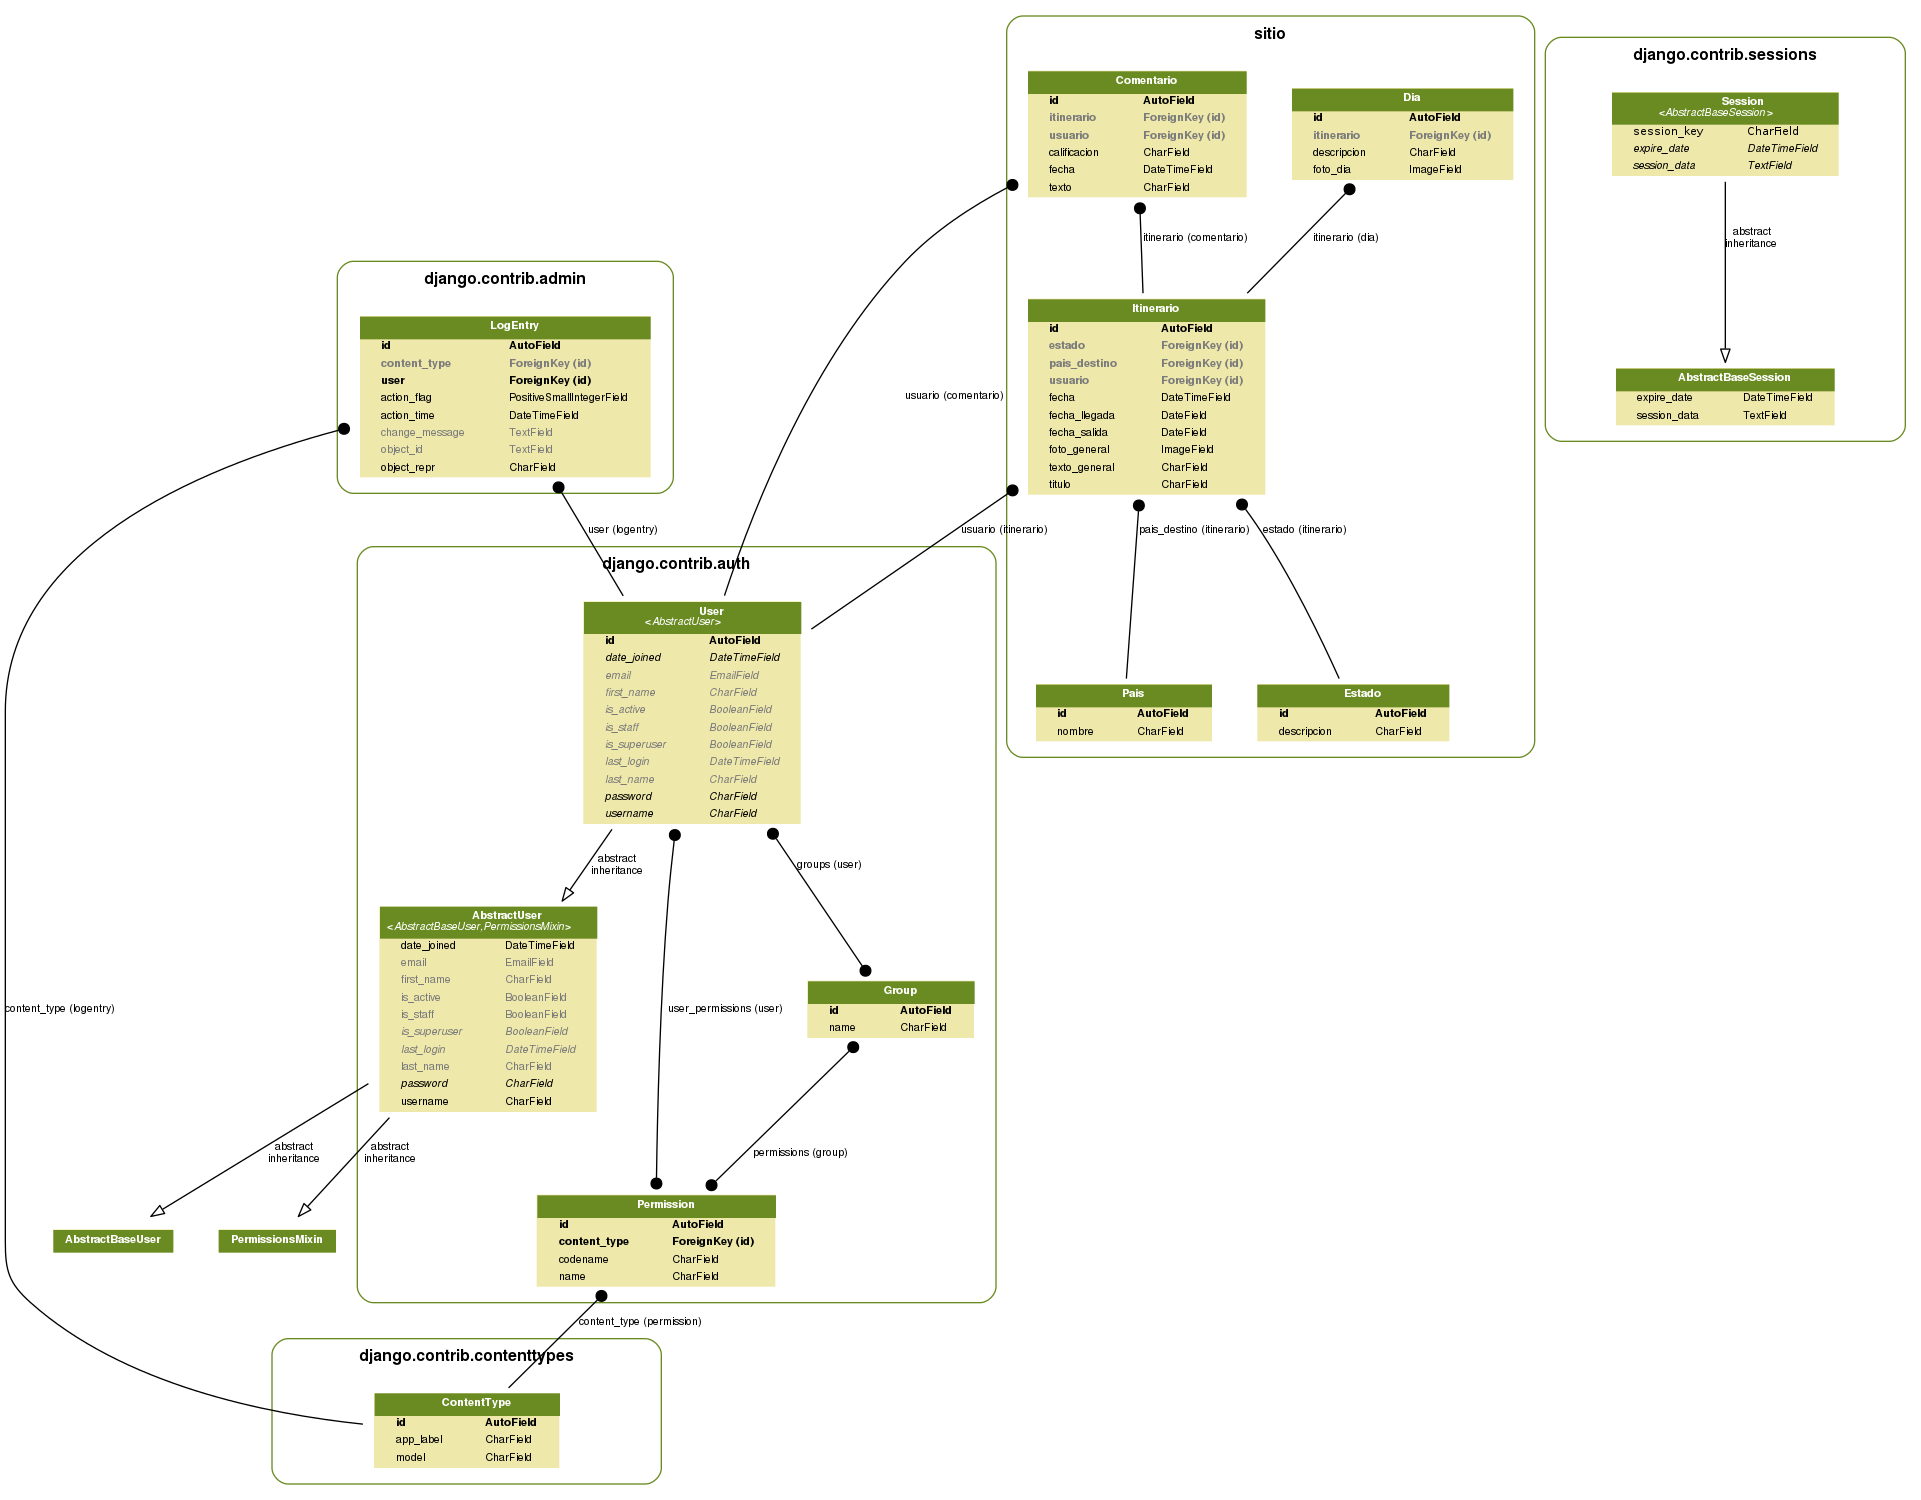
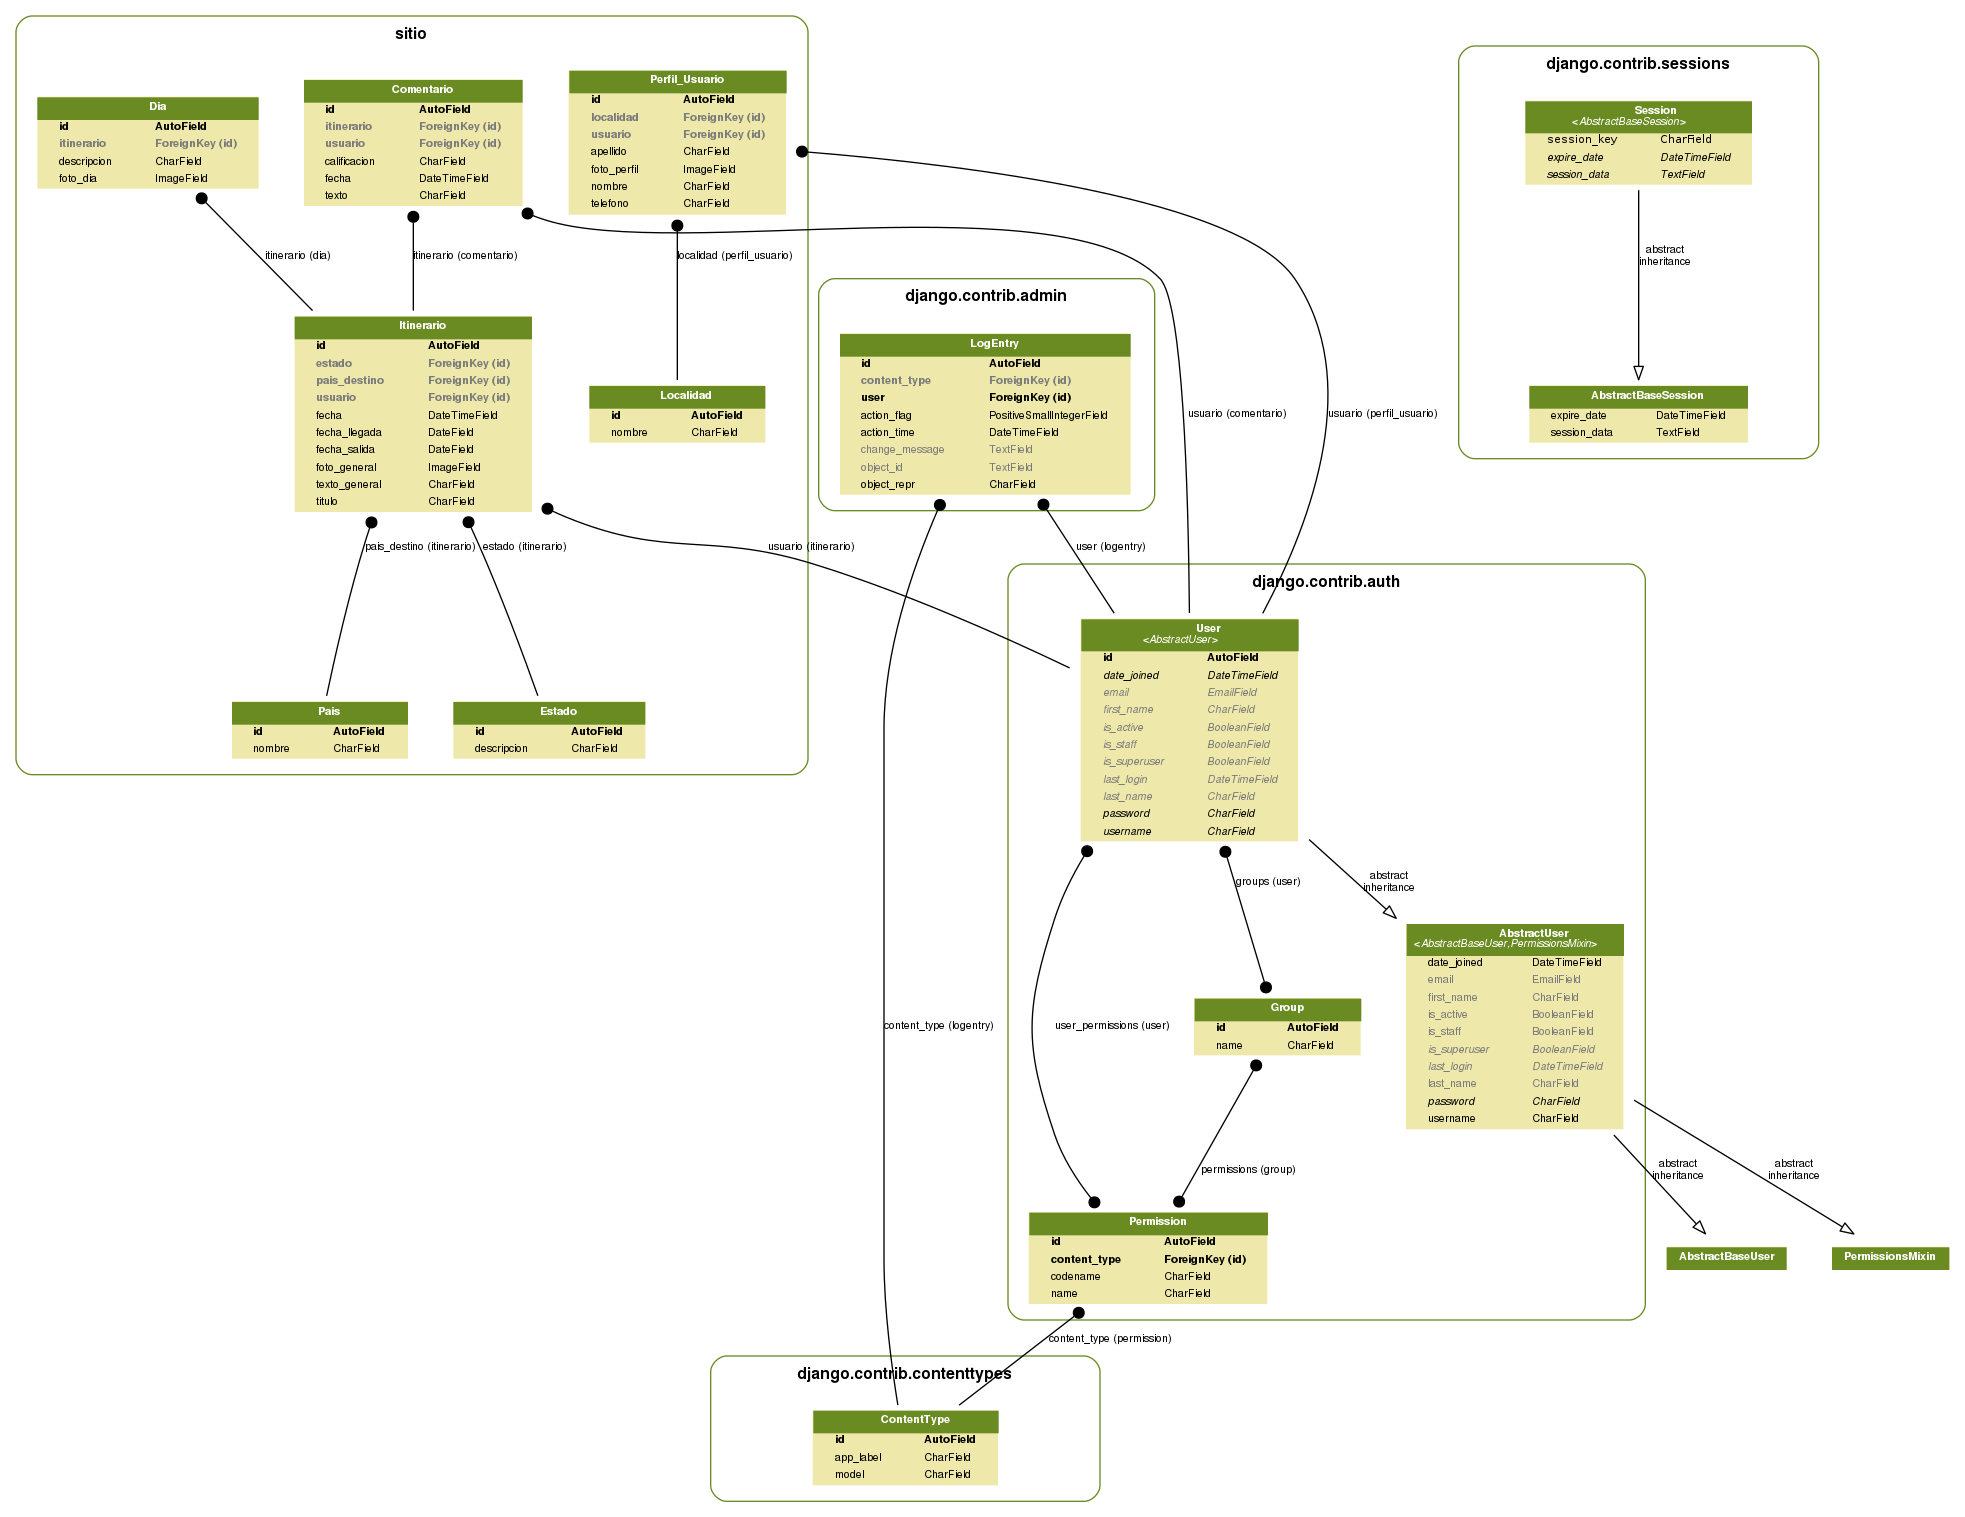
modelo de datos

diff --git a/turismo/sitio/templates/base.html b/turismo/sitio/templates/base.html
@@ -1,5 +1,6 @@
 {% load static %}
 <html>
+
 <head>
     <script src="{% static 'sitio/jquery.min.js' %}"></script>
     <link rel="stylesheet" href="https://maxcdn.bootstrapcdn.com/bootstrap/3.3.7/css/bootstrap.min.css">
@@ -8,10 +9,10 @@
     {% block extra_html %}
     {% endblock %}
 </head>
-<body>
-    <h1>{% block titulo %}{% endblock %}</h1>
 
-    {% block menu %}
+<body>
+    
+    {% block menu %} 
     <div id="cabecera_menu">
         {% if user.is_anonymous %}
             <ul class="menu">
@@ -36,12 +37,16 @@
         {% endif %}
     </div>
     {% endblock %}
-
+    
+    <h1>{% block titulo %}{% endblock %}</h1>
+    
     {% block contenido %}
     {% endblock %}
 
     {% block extra_js %}
         <script src="{% static 'sitio/base.js' %}" ></script>
     {% endblock %}
+
 </body>
+
 </html>

diff --git a/turismo/sitio/models.py b/turismo/sitio/models.py
@@ -1,10 +1,25 @@
 from django.contrib import admin
 from django.db import models
-from django.contrib.auth.models import AbstractUser
+from django.contrib.auth.models import User
 
-class User(AbstractUser):
+class Localidad(models.Model):
+    nombre = models.CharField(max_length=50)
+    
+    def __str__(self):
+        return self.nombre
+
+class Perfil_Usuario(models.Model):
+    nombre = models.CharField(max_length=30)
+    apellido = models.CharField(max_length=30)
     foto_perfil = models.ImageField(upload_to = 'sitio/imagenes/', 
         default = 'sitio/imagenes/none/no-img.png')
+    localidad = models.ForeignKey(Localidad, null=True, blank=True)
+    telefono = models.CharField(max_length=20)
+    usuario = models.ForeignKey(User, null=True, blank=True)
+
+    def __str__(self):
+        return self.apellido + ', ' + self.nombre
+
 
 class Pais(models.Model):
     nombre = models.CharField(max_length=50)

diff --git a/turismo/turismo/urls.py b/turismo/turismo/urls.py
@@ -19,10 +19,11 @@ from django.conf import settings
 from django.conf.urls.static import static
 
 
-from sitio.views import inicio, crear_itinerario, usuario, crear_dia, ver_itinerario
+from sitio.views import inicio, crear_itinerario, usuario, crear_dia, ver_itinerario, acerca_de
 urlpatterns = [
     url(r'^$', inicio),
     url(r'^inicio/$', inicio),
+    url(r'^acerca_de/$', acerca_de),
     url(r'^admin/', admin.site.urls),
     url(r'^crear_itinerario/$', crear_itinerario),
     url(r'^crear_dia/(?P<id_itiner>\d+)/$', crear_dia),

diff --git a/turismo/sitio/views.py b/turismo/sitio/views.py
@@ -17,6 +17,9 @@ def inicio(request):
     itinerarios = Itinerario.objects.all()
     return render(request, 'inicio.html', {'lista_itinerarios': itinerarios})
 
+def acerca_de(request):
+    return render(request, 'acerca_de.html')
+
 def usuario(request):
     usuarios = User.objects.all()
     return render(request, 'usuario.html', {'lista_usuarios': usuarios})

diff --git a/turismo/turismo/settings.py b/turismo/turismo/settings.py
@@ -117,7 +117,6 @@ AUTH_PASSWORD_VALIDATORS = [
     },
 ]
 
-
 # Internationalization
 # https://docs.djangoproject.com/en/1.10/topics/i18n/
 
